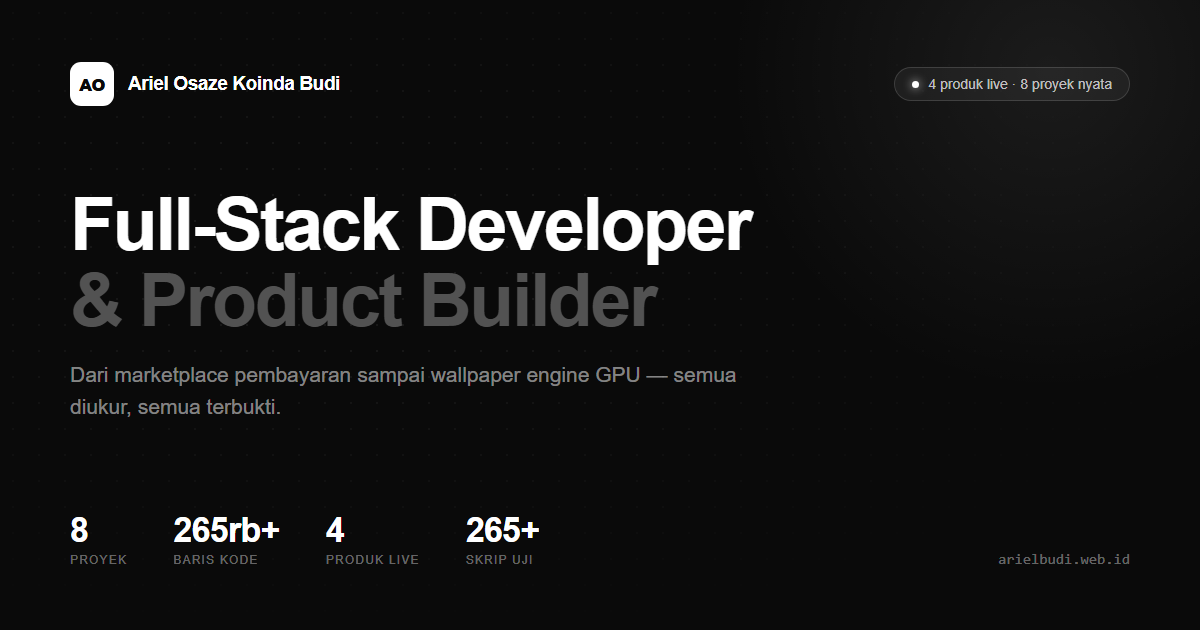
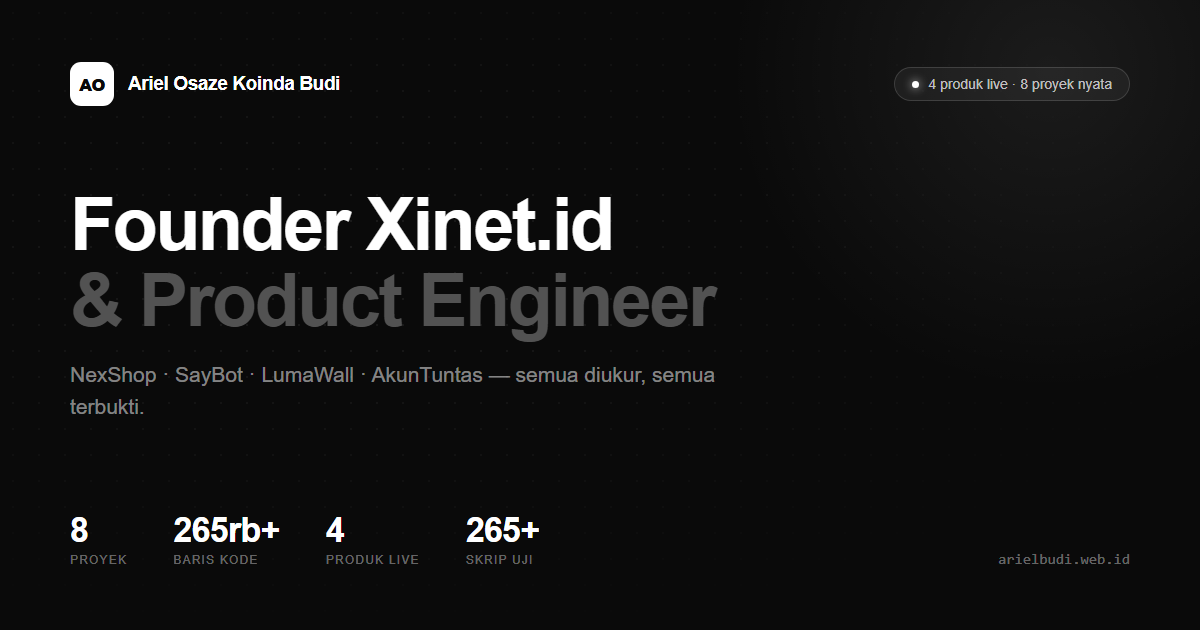
tambah section Pengalaman & Pendidikan (Xinet, Pegadaian, Deltalube, UT) + update SEO

Changed region(s): [[0.0925, 0.3016, 0.6475, 0.5429], [0.0617, 0.573, 0.6167, 0.6635]]

diff --git a/src/components/Experience.jsx b/src/components/Experience.jsx
@@ -1,0 +1,144 @@
+import { experience, owner, topSkills } from "../data/projects";
+import BlurText from "./rb/TextAnimations/BlurText/BlurText";
+import { Briefcase, GraduationCap, MapPin, Sparkles } from "lucide-react";
+
+export default function Experience() {
+  return (
+    <section id="pengalaman" className="relative overflow-hidden py-28">
+      <div className="dot-grid pointer-events-none absolute inset-0 -z-10 opacity-40 [mask-image:radial-gradient(ellipse_at_center,black,transparent_78%)]" />
+
+      <div className="mx-auto max-w-[1324px] px-6">
+        <header className="mb-14 max-w-2xl">
+          <p className="mb-3 font-mono text-xs tracking-[0.3em] text-[#d4d4d8] uppercase">
+            02 — Pengalaman
+          </p>
+          <BlurText
+            text="Dari operasional sampai membangun produk."
+            delay={26}
+            animateBy="words"
+            direction="top"
+            className="text-4xl font-bold tracking-[-0.02em] text-white md:text-5xl"
+          />
+          <p className="mt-5 text-[15px] leading-relaxed text-white/50">
+            Pengalaman gabungan: manajemen aset & operasional, pemasaran, perencanaan strategis, dan
+            pengembangan produk teknologi.
+          </p>
+        </header>
+
+        <div className="grid gap-10 lg:grid-cols-[1.35fr_1fr]">
+          {/* ── kolom kiri: linimasa pengalaman ───────────────────────── */}
+          <div>
+            <h3 className="mb-6 flex items-center gap-2.5 text-lg font-semibold text-white">
+              <Briefcase size={17} className="text-[#d4d4d8]" /> Pengalaman kerja
+            </h3>
+
+            <div className="relative space-y-4">
+              <div className="absolute top-2 bottom-2 left-[7px] w-px bg-gradient-to-b from-white/40 via-[#262626] to-transparent" />
+
+              {experience.map((e) => (
+                <div key={`${e.role}-${e.org}`} className="relative flex gap-5">
+                  <span
+                    className={`relative z-10 mt-6 h-3.5 w-3.5 shrink-0 rounded-full border-2 border-[#0a0a0a] ${
+                      e.highlight ? "bg-white" : "bg-[#525252]"
+                    }`}
+                  />
+                  <div
+                    className={`surface flex-1 p-5 transition-colors duration-300 hover:border-white/25 ${
+                      e.highlight ? "border-white/20" : ""
+                    }`}
+                  >
+                    <div className="flex flex-wrap items-baseline justify-between gap-x-4 gap-y-1">
+                      <h4 className="text-[16px] font-semibold text-white">{e.role}</h4>
+                      <span className="font-mono text-[11px] text-white/40">{e.period}</span>
+                    </div>
+                    <p className="mt-0.5 text-[14px] text-[#d4d4d8]">{e.org}</p>
+                    {e.location && (
+                      <p className="mt-1 flex items-center gap-1.5 font-mono text-[11px] text-white/35">
+                        <MapPin size={11} /> {e.location}
+                      </p>
+                    )}
+                    <p className="mt-3 text-[13px] leading-relaxed text-white/50">{e.desc}</p>
+                    <div className="mt-3 flex flex-wrap gap-2">
+                      {e.tags.map((t) => (
+                        <span
+                          key={t}
+                          className="rounded-lg border border-[#262626] bg-[#0a0a0a] px-2.5 py-1 font-mono text-[11px] text-white/45"
+                        >
+                          {t}
+                        </span>
+                      ))}
+                    </div>
+                  </div>
+                </div>
+              ))}
+            </div>
+          </div>
+
+          {/* ── kolom kanan: pendidikan + keahlian ────────────────────── */}
+          <div className="space-y-6">
+            <div>
+              <h3 className="mb-6 flex items-center gap-2.5 text-lg font-semibold text-white">
+                <GraduationCap size={18} className="text-[#d4d4d8]" /> Pendidikan
+              </h3>
+              <div className="surface p-5">
+                <div className="flex flex-wrap items-baseline justify-between gap-x-4 gap-y-1">
+                  <h4 className="text-[16px] font-semibold text-white">{owner.education.school}</h4>
+                  <span className="font-mono text-[11px] text-white/40">{owner.education.period}</span>
+                </div>
+                <p className="mt-0.5 text-[14px] text-[#d4d4d8]">{owner.education.degree}</p>
+                <p className="mt-2 inline-flex items-center gap-2 rounded-lg border border-white/15 bg-white/[0.06] px-3 py-1 font-mono text-[12px] text-white">
+                  IPK {owner.education.gpa}
+                </p>
+                <p className="mt-3 text-[13px] leading-relaxed text-white/50">{owner.education.note}</p>
+              </div>
+            </div>
+
+            <div>
+              <h3 className="mb-6 flex items-center gap-2.5 text-lg font-semibold text-white">
+                <Sparkles size={17} className="text-[#d4d4d8]" /> Keahlian utama
+              </h3>
+              <div className="surface p-5">
+                <div className="flex flex-wrap gap-2">
+                  {topSkills.map((s) => (
+                    <span
+                      key={s}
+                      className="rounded-lg border border-[#262626] bg-[#0a0a0a] px-3 py-1.5 text-[12px] text-white/60 transition-colors hover:border-white/25 hover:text-white"
+                    >
+                      {s}
+                    </span>
+                  ))}
+                </div>
+              </div>
+            </div>
+
+            {/* kartu Xinet */}
+            <div className="surface relative overflow-hidden p-6">
+              <div className="absolute -top-14 -right-14 h-40 w-40 rounded-full bg-white/[0.04] blur-3xl" />
+              <p className="font-mono text-[10px] tracking-[0.22em] text-white/40 uppercase">
+                Perusahaan
+              </p>
+              <h4 className="mt-1.5 text-xl font-bold text-white">Xinet.id</h4>
+              <p className="mt-1 font-mono text-[12px] text-[#d4d4d8]">Build what&apos;s next.</p>
+              <p className="mt-4 text-[13px] leading-relaxed text-white/50">
+                Ekosistem produk digital: commerce, komunikasi, alat bisnis, otomasi, dan AI. NexShop,
+                SayBot, dan AkunTuntas dibangun di dalamnya.
+              </p>
+              <div className="mt-5 grid grid-cols-3 gap-3 border-t border-[#262626] pt-4">
+                {[
+                  { n: "NexShop", d: "Commerce" },
+                  { n: "SayBot", d: "Pesan" },
+                  { n: "AkunTuntas", d: "Pembukuan" },
+                ].map((x) => (
+                  <div key={x.n}>
+                    <p className="text-[13px] font-semibold text-white">{x.n}</p>
+                    <p className="font-mono text-[10px] text-white/35">{x.d}</p>
+                  </div>
+                ))}
+              </div>
+            </div>
+          </div>
+        </div>
+      </div>
+    </section>
+  );
+}

diff --git a/index.html b/index.html
@@ -5,10 +5,10 @@
     <meta name="viewport" content="width=device-width, initial-scale=1.0" />
 
     <!-- ── SEO dasar ─────────────────────────────────────────────────────── -->
-    <title>Ariel Osaze Koinda Budi — Full-Stack Developer & Product Builder</title>
+    <title>Ariel Osaze Koinda Budi — Founder Xinet.id, Full-Stack Developer</title>
     <meta
       name="description"
-      content="Portofolio Ariel Osaze Koinda Budi — 8 proyek nyata: marketplace pembayaran NexShop, gateway pesan multi-akun SayBot, wallpaper engine GPU LumaWall, dan aplikasi pembukuan pajak AkunTuntas. 265rb+ baris kode, 4 produk live."
+      content="Ariel Osaze Koinda Budi — Founder content="Portofolio Ariel Osaze Koinda Budi — 8 proyek nyata: marketplace pembayaran NexShop, gateway pesan multi-akun SayBot, wallpaper engine GPU LumaWall, dan aplikasi pembukuan pajak AkunTuntas. 265rb+ baris kode, 4 produk live." Product Engineer Xinet.id. Membangun NexShop (marketplace pembayaran), SayBot (gateway pesan multi-akun), LumaWall (wallpaper engine GPU), dan AkunTuntas (pembukuan pajak). 8 proyek nyata, 265rb+ baris kode."
     />
     <meta
       name="keywords"
@@ -22,7 +22,7 @@
     <!-- ── Open Graph (WhatsApp, Facebook, LinkedIn, Discord) ───────────── -->
     <meta property="og:type" content="website" />
     <meta property="og:site_name" content="Ariel Osaze Koinda Budi" />
-    <meta property="og:title" content="Ariel Osaze Koinda Budi — Full-Stack Developer & Product Builder" />
+    <meta property="og:title" content="Ariel Osaze Koinda Budi — Founder Xinet.id, Full-Stack Developer" />
     <meta
       property="og:description"
       content="8 proyek nyata, 265rb+ baris kode, 4 produk live. Dari marketplace pembayaran sampai wallpaper engine GPU — semua diukur, semua terbukti."
@@ -31,12 +31,12 @@
     <meta property="og:image" content="https://www.arielbudi.web.id/assets/og-card.png" />
     <meta property="og:image:width" content="1200" />
     <meta property="og:image:height" content="630" />
-    <meta property="og:image:alt" content="Ariel Osaze Koinda Budi — Full-Stack Developer & Product Builder" />
+    <meta property="og:image:alt" content="Ariel Osaze Koinda Budi — Founder Xinet.id, Full-Stack Developer" />
     <meta property="og:locale" content="id_ID" />
 
     <!-- ── Twitter / X ──────────────────────────────────────────────────── -->
     <meta name="twitter:card" content="summary_large_image" />
-    <meta name="twitter:title" content="Ariel Osaze Koinda Budi — Full-Stack Developer & Product Builder" />
+    <meta name="twitter:title" content="Ariel Osaze Koinda Budi — Founder Xinet.id, Full-Stack Developer" />
     <meta
       name="twitter:description"
       content="8 proyek nyata, 265rb+ baris kode, 4 produk live. Semua diukur, semua terbukti."
@@ -62,15 +62,32 @@
         "email": "mailto:arielbudi4@gmail.com",
         "address": { "@type": "PostalAddress", "addressCountry": "ID" },
         "sameAs": ["https://github.com/ArielOsaze"],
+        "worksFor": {
+          "@type": "Organization",
+          "name": "Xinet.id",
+          "slogan": "Build what's next",
+          "description": "Perusahaan produk digital: commerce, komunikasi, alat bisnis, otomasi, dan AI."
+        },
+        "alumniOf": {
+          "@type": "CollegeOrUniversity",
+          "name": "Universitas Terbuka"
+        },
         "knowsAbout": [
+          "Full-Stack Development", "Product Management", "System Architecture",
           "React", "Node.js", "TypeScript", "Python", "C#", "PostgreSQL",
-          "Supabase", "WebGL", "Tailwind CSS", "GSAP"
+          "Supabase", "WebGL", "Tailwind CSS", "GSAP", "Payment Integration",
+          "API Integration", "Database Design", "Security", "Strategic Planning"
+        ],
+        "hasOccupation": [
+          { "@type": "Occupation", "name": "Founder & Product Engineer", "occupationLocation": { "@type": "Country", "name": "Indonesia" } },
+          { "@type": "Occupation", "name": "Software Engineer" },
+          { "@type": "Occupation", "name": "Asset Management Specialist" }
         ],
         "hasPart": [
-          { "@type": "SoftwareApplication", "name": "NexShop", "url": "https://nexshop.cloud" },
-          { "@type": "SoftwareApplication", "name": "SayBot Messaging Gateway", "url": "https://saybot.nexshop.cloud" },
-          { "@type": "SoftwareApplication", "name": "LumaWall", "url": "https://lumawall.xinet.id" },
-          { "@type": "SoftwareApplication", "name": "AkunTuntas", "url": "https://akuntuntas.xinet.id" }
+          { "@type": "SoftwareApplication", "name": "NexShop", "url": "https://nexshop.cloud", "applicationCategory": "BusinessApplication" },
+          { "@type": "SoftwareApplication", "name": "SayBot Messaging Gateway", "url": "https://saybot.nexshop.cloud", "applicationCategory": "BusinessApplication" },
+          { "@type": "SoftwareApplication", "name": "LumaWall", "url": "https://lumawall.xinet.id", "applicationCategory": "DesktopApplication" },
+          { "@type": "SoftwareApplication", "name": "AkunTuntas", "url": "https://akuntuntas.xinet.id", "applicationCategory": "FinanceApplication" }
         ]
       }
     </script>

diff --git a/src/data/projects.js b/src/data/projects.js
@@ -6,17 +6,90 @@
 export const owner = {
   name: "Ariel Osaze Koinda Budi",
   short: "Ariel Osaze Koinda Budi",
-  role: "Full-Stack Developer & Product Builder",
+  role: "Founder & Product Engineer — Xinet.id",
   location: "Indonesia",
   email: "arielbudi4@gmail.com",
   github: "https://github.com/ArielOsaze",
+  xinet: "Xinet.id — Build what's next",
   tagline:
     "Membangun produk digital yang benar-benar dipakai — dari marketplace pembayaran, gateway pesan multi-akun, sampai aplikasi desktop pembukuan pajak.",
   bio: [
     "Aku membangun produk dari nol sampai produksi: backend, frontend, database, deployment, sampai halaman jualannya. Semua proyek di bawah ini berjalan nyata — punya pengguna, transaksi, dan server yang harus tetap hidup.",
     "Cara kerjaku: ukur, bukan menebak. Setiap perbaikan punya bukti — skrip uji otomatis, screenshot piksel, atau angka pengukuran. Kalau sebuah klaim tidak bisa diukur, itu belum selesai.",
   ],
+  about:
+    "Founder & Owner Xinet.id — perusahaan produk digital yang membangun produk teknologi mandiri di bidang commerce, komunikasi, alat bisnis, otomasi, dan AI. Fokus: strategi produk, arsitektur sistem, pengembangan, integrasi API, desain basis data, keamanan, deployment, dan UI/UX. Pengalaman gabungan: operasi & manajemen aset, pemasaran, perencanaan strategis, dan pengembangan teknologi — berfokus menyelesaikan masalah praktis dengan produk yang berguna, skalabel, dan aman.",
+  education: {
+    school: "Universitas Terbuka",
+    degree: "Manajemen — Business Administration and Management",
+    period: "Feb 2026 – Jun 2030",
+    gpa: "3,53 / 4,00",
+    note: "Menyelesaikan 18 SKS dengan IPK semester 3,53. Mempelajari Manajemen, Dasar Bisnis, Studi Organisasi, dan Bahasa Inggris.",
+  },
 };
+
+// ── Pengalaman kerja (dari profil profesional) ───────────────────────────────
+export const experience = [
+  {
+    role: "Founder & Owner",
+    org: "Xinet.id",
+    period: "Feb 2023 – sekarang",
+    location: "Semarang, Jawa Tengah · Remote",
+    desc: "Perusahaan produk digital: commerce, komunikasi, alat bisnis, otomasi, dan AI. Strategi produk, arsitektur sistem, pengembangan, integrasi API, desain basis data, keamanan, deployment, dan UI/UX.",
+    tags: ["Product Strategy", "System Architecture", "Full-Stack Development"],
+    highlight: true,
+  },
+  {
+    role: "Founder & Product Engineer",
+    org: "NexShop",
+    period: "Jul 2026 – sekarang",
+    location: "Indonesia · Remote",
+    desc: "Membangun dan memimpin pengembangan NexShop — platform commerce digital untuk produk digital, pembayaran, dan layanan reseller.",
+    tags: ["Product Development", "Full-Stack Development", "Payment Integration"],
+    highlight: true,
+  },
+  {
+    role: "Software Engineer",
+    org: "AkunTuntas",
+    period: "Sep 2026 – sekarang",
+    location: "Surakarta, Jawa Tengah · On-site",
+    desc: "Membangun sistem pembukuan & pajak yang sepenuhnya offline untuk bisnis Indonesia — penjualan, pembelian, arus kas, jurnal, dan laporan keuangan dalam satu aplikasi.",
+    tags: ["Software Development", "Product Development"],
+    highlight: true,
+  },
+  {
+    role: "Asset Management Specialist",
+    org: "PT Pegadaian (PUSAT GADAI INDONESIA)",
+    period: "Sep 2024 – sekarang",
+    location: "Jawa Tengah, Indonesia · Kontrak",
+    desc: "Manajemen gudang dan layanan pelanggan di industri pegadaian: penyimpanan aset, perawatan, kepatuhan audit, dan efisiensi operasional harian.",
+    tags: ["Asset Management", "Operational Compliance", "Customer Service"],
+  },
+  {
+    role: "Ex Branch Marketing",
+    org: "Deltalube",
+    period: "Mei 2023 – Des 2023",
+    location: "Indonesia",
+    desc: "Pemasaran cabang: akuisisi pelanggan, kualitas layanan, membangun hubungan, dan mendukung pertumbuhan bisnis.",
+    tags: ["Marketing", "Customer Acquisition"],
+  },
+];
+
+// ── Top skills (dari profil profesional) ────────────────────────────────────
+export const topSkills = [
+  "Full-Stack Development",
+  "Product Management",
+  "System Architecture",
+  "Strategic Planning for Growth",
+  "Problem Solving",
+  "Strategic Asset Management",
+  "Payment Integration",
+  "API Integration",
+  "Database Design",
+  "UI/UX Improvement",
+  "Security & Deployment",
+  "Growth Marketing",
+];
 
 export const stats = [
   { label: "Proyek nyata", value: 8, suffix: "" },

diff --git a/src/components/Hero.jsx b/src/components/Hero.jsx
@@ -36,11 +36,11 @@ export default function Hero() {
       <div className="mx-auto grid max-w-[1324px] gap-14 px-6 pt-12 pb-24 lg:grid-cols-[1.05fr_.95fr] lg:items-center">
         {/* ── kolom kiri ─────────────────────────────────────────────── */}
         <div className={mounted ? "rise" : "opacity-0"}>
-          <div className="mb-7 inline-flex items-center gap-2.5 rounded-full border border-white/10 bg-white/[0.05] py-1 pr-4 pl-1.5 text-[13px] text-white/70">
-            <span className="rounded-full bg-[#ffffff]/20 px-2.5 py-1 text-[11px] font-semibold text-[#d4d4d8]">
-              {live.length} live
+          <div className="mb-7 inline-flex flex-wrap items-center gap-2.5 rounded-full border border-white/10 bg-white/[0.05] py-1 pr-4 pl-1.5 text-[13px] text-white/70">
+            <span className="rounded-full bg-white/15 px-2.5 py-1 text-[11px] font-semibold text-white">
+              Founder Xinet.id
             </span>
-            {projects.length} proyek nyata · semua terverifikasi
+            {live.length} live · {projects.length} proyek nyata
           </div>
 
           <h1 className="text-[11.5vw] leading-[1.02] font-bold tracking-[-0.03em] sm:text-6xl lg:text-[64px]">

diff --git a/src/components/Sections.jsx b/src/components/Sections.jsx
@@ -8,7 +8,7 @@ export function Journey() {
       <div className="mx-auto max-w-[1324px] px-6">
         <header className="mb-14 max-w-2xl">
           <p className="mb-3 font-mono text-xs tracking-[0.3em] text-[#d4d4d8] uppercase">
-            03 — Perjalanan
+            05 — Perjalanan
           </p>
           <h2 className="text-4xl font-bold tracking-[-0.02em] text-white md:text-5xl">
             Dari eksperimen jadi <span className="text-grad">produk produksi</span>
@@ -60,7 +60,7 @@ export function Contact() {
 
       <div className="mx-auto grid max-w-[1324px] gap-12 px-6 lg:grid-cols-[1fr_.9fr] lg:items-center">
         <div>
-          <p className="mb-3 font-mono text-xs tracking-[0.3em] text-[#d4d4d8] uppercase">04 — Kontak</p>
+          <p className="mb-3 font-mono text-xs tracking-[0.3em] text-[#d4d4d8] uppercase">06 — Kontak</p>
           <h2 className="text-4xl font-bold tracking-[-0.02em] text-white md:text-5xl">
             Ada produk yang perlu <span className="text-grad">dibangun benar?</span>
           </h2>

diff --git a/src/components/Lab.jsx b/src/components/Lab.jsx
@@ -44,7 +44,7 @@ export default function Lab() {
     <section id="lab" className="relative overflow-hidden py-28">
       <div className="mx-auto max-w-[1324px] px-6">
         <header className="mb-12 max-w-3xl">
-          <p className="mb-3 font-mono text-xs tracking-[0.3em] text-[#d4d4d8] uppercase">05 — Lab Efek</p>
+          <p className="mb-3 font-mono text-xs tracking-[0.3em] text-[#d4d4d8] uppercase">04 — Lab Efek</p>
           <h2 className="text-4xl font-bold tracking-[-0.02em] md:text-5xl">
             <GradientText
               colors={["#fff", "#a1a1aa", "#d4d4d8", "#fff"]}

diff --git a/src/main.jsx b/src/main.jsx
@@ -6,6 +6,7 @@ import Lenis from "lenis";
 import Nav from "./components/Nav";
 import Hero from "./components/Hero";
 import Projects from "./components/Projects";
+import Experience from "./components/Experience";
 import Skills from "./components/Skills";
 import Lab from "./components/Lab";
 import { Journey, Contact, Footer } from "./components/Sections";
@@ -51,6 +52,7 @@ function App() {
       <main>
         <Hero />
         <Projects />
+        <Experience />
         <Skills />
         <Lab />
         <Journey />

diff --git a/src/components/Skills.jsx b/src/components/Skills.jsx
@@ -53,7 +53,7 @@ export default function Skills() {
 
       <div className="mx-auto max-w-[1324px] px-6">
         <header className="mb-12 max-w-2xl">
-          <p className="mb-3 font-mono text-xs tracking-[0.3em] text-[#d4d4d8] uppercase">02 — Keahlian</p>
+          <p className="mb-3 font-mono text-xs tracking-[0.3em] text-[#d4d4d8] uppercase">03 — Keahlian</p>
           <BlurText
             text="Tumpukan teknologi yang benar-benar kupakai di produksi."
             delay={26}

diff --git a/src/components/Nav.jsx b/src/components/Nav.jsx
@@ -5,9 +5,9 @@ import ShinyText from "./rb/TextAnimations/ShinyText/ShinyText";
 
 const LINKS = [
   { href: "#proyek", label: "Proyek" },
+  { href: "#pengalaman", label: "Pengalaman" },
   { href: "#keahlian", label: "Keahlian" },
   { href: "#lab", label: "Lab Efek" },
-  { href: "#cara-kerja", label: "Cara Kerja" },
   { href: "#kontak", label: "Kontak" },
 ];
 
